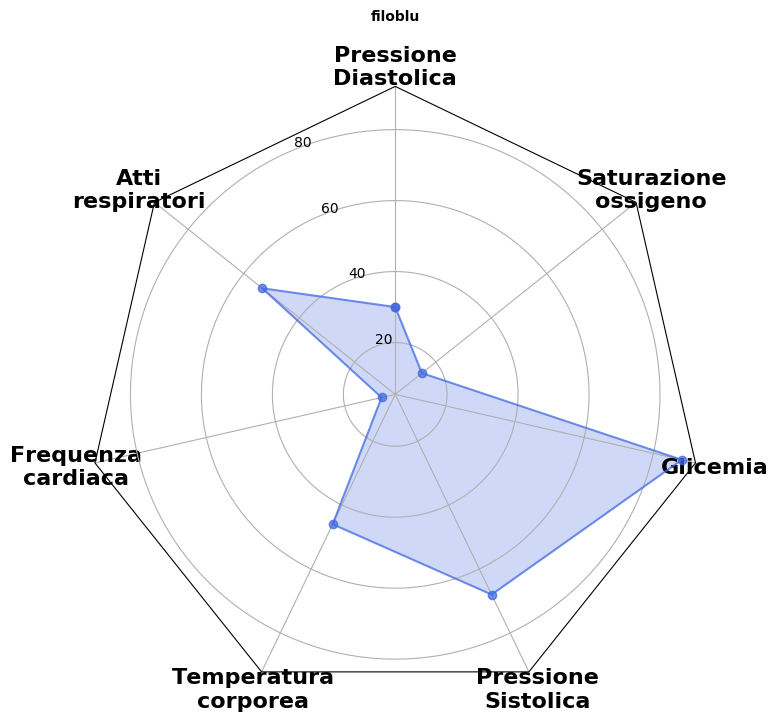
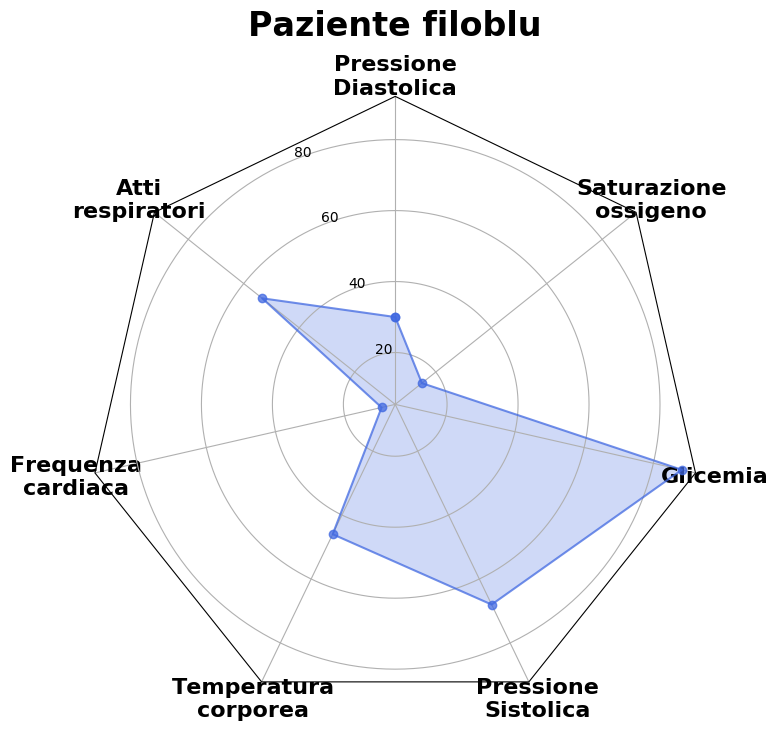
minor fix for datetime in img

diff --git a/FiloBlu/radar_plot.py b/FiloBlu/radar_plot.py
@@ -122,7 +122,7 @@ def radar_factory(num_vars, frame='circle'):
     return theta
 
 
-def radar_plot(bio_params, patient_names=None, title=False):
+def radar_plot(bio_params, patient_names=None, title=True):
 
   theta = radar_factory(len(std_bio_params), frame='polygon')
   color = 'royalblue'
@@ -141,16 +141,24 @@ def radar_plot(bio_params, patient_names=None, title=False):
 
       uniques_patient.add(id_patient)
 
-      params = {k : std_bio_params[k](v) if v else np.nan
+      if 'storage_time' in bio_param:
+        bio_time = bio_param['storage_time']
+        bio_param.pop('storage_time', None)
+      else:
+        bio_time = None
+
+      params = {k : std_bio_params[k](v) if v else 0
                 for k, v in bio_param.items()}
 
       for k in std_bio_params.keys():
         if k not in params:
-          params[k] = np.nan
+          params[k] = 0
 
       if title and id_patient:
-        ax.set_title(id_patient,
-                     weight='bold', size='medium',
+        img_title = 'Paziente ' + str(id_patient)
+        img_title += ' : ' + bio_time.strftime("%m/%d/%Y, %H:%M:%S") if bio_time else ''
+        ax.set_title(img_title,
+                     weight='bold', size=24,
                      position=(0.5, 1.1),
                      horizontalalignment='center',
                      verticalalignment='center')

diff --git a/FiloBlu/database.py b/FiloBlu/database.py
@@ -153,6 +153,7 @@ class FiloBluDB(object):
           result_query = defaultdict(dict)
           for patient_bio, patient_bioval, patient_param, bio_time in self._cursor.fetchall():
             result_query[patient_bio][patient_param] = float(patient_bioval)
+            result_query[patient_bio]['storage_time'] = bio_time
 
           data_to_process = [None] * len(patient_msg)
 
@@ -243,10 +244,10 @@ class FiloBluDB(object):
 
           score = self._score.get()
 
-          for id_paziente, scritto_il, sa_score in score:
-            self._cursor.execute('UPDATE messaggi SET sa_score = {0} WHERE id_paziente = {1} AND scritto_il = "{2}"'.format(sa_score, id_paziente, scritto_il))
-
-          self._db.commit()
+#          for id_paziente, scritto_il, sa_score in score:
+#            self._cursor.execute('UPDATE messaggi SET sa_score = {0} WHERE id_paziente = {1} AND scritto_il = "{2}"'.format(sa_score, id_paziente, scritto_il))
+#
+#          self._db.commit()
 
           self._logger.info('Score last messages: {}'.format(list(map(operator.itemgetter(2), score))) )
 
